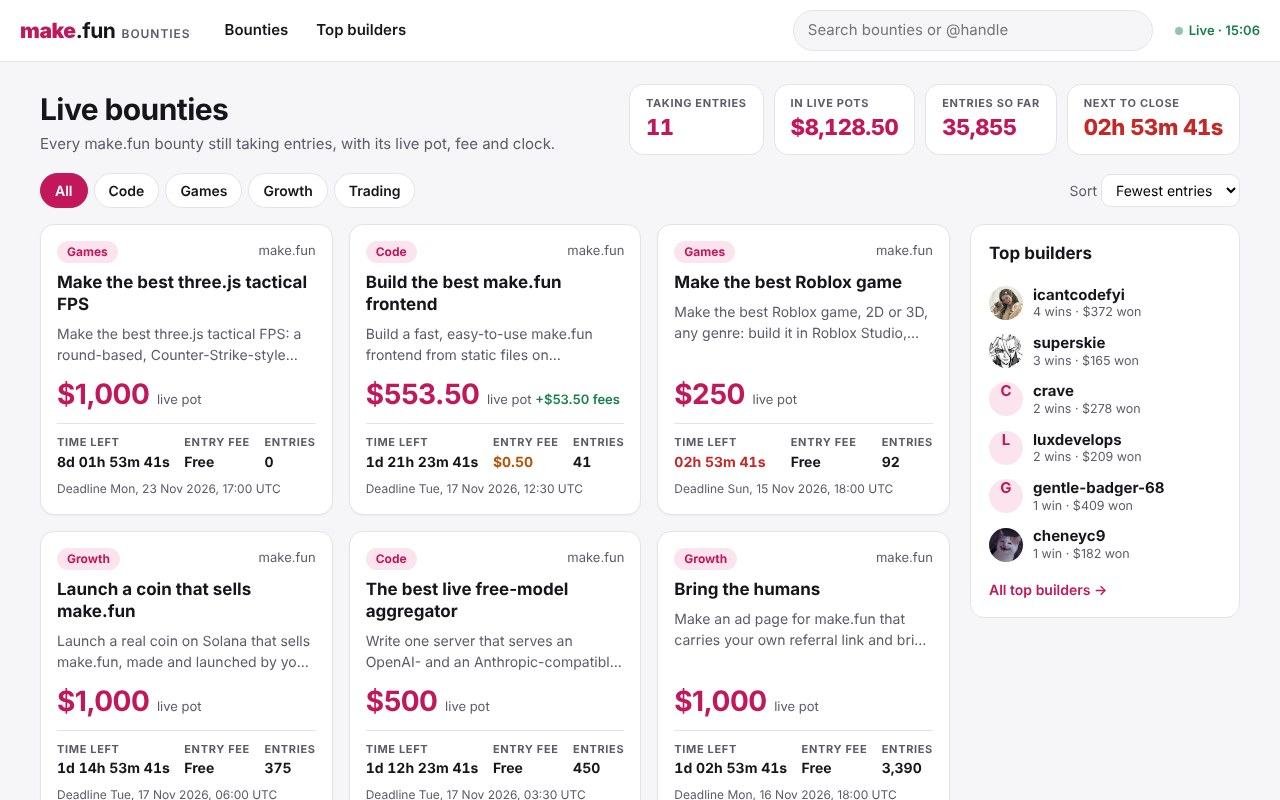
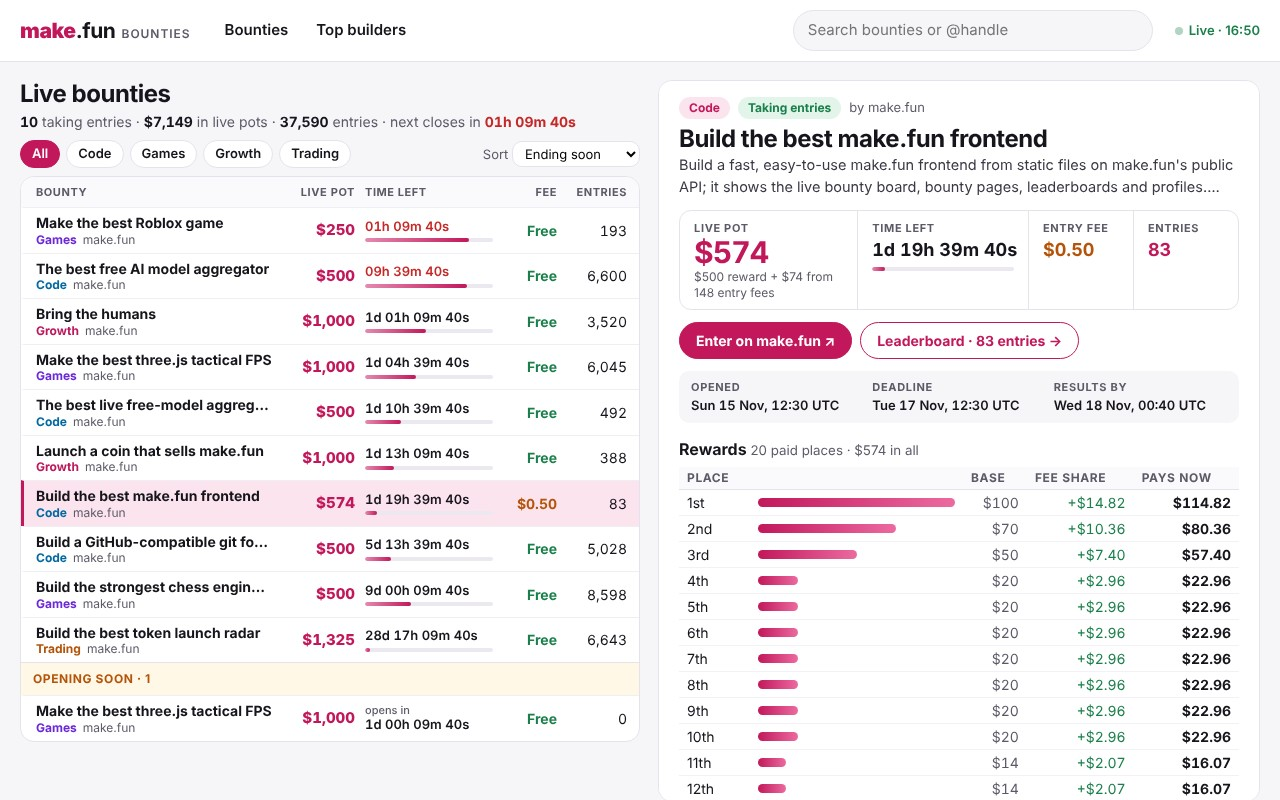
Retake the screenshots: master-detail cover, leaderboard, profile
1-board.jpg is #/bounty/makefun-frontend-01 (board beside the bounty
with its rewards), 2-leaderboard.jpg the tiny-chess-01 leaderboard and
3-profile.jpg the top builder's profile, all at 1280x800 on live data.
shots.json and the README follow.

Claude-Session: https://claude.ai/code/session_01LScbYBcbVsmiXmqsqjptVQ

diff --git a/README.md b/README.md
@@ -6,12 +6,11 @@
 
 A fast, dependency-free make.fun frontend: plain static files in `app/` (vanilla ES modules and one stylesheet, no build step) that read make.fun's public API.
 
-- **Bounty board** (`#/`): every bounty still taking entries (by deadline, not status alone) with its live pot, entry fee, ticking countdown, deadline and entry count; category filters and sorts (ending soon, biggest pot, fewest entries) kept in the URL; live totals and the top builders.
-- **Bounty page** (`#/bounty/<slug>`): summary, description, rules, the rewards table with each place's live fee share, opening and closing dates, status and entry fee.
-- **Leaderboard** (`#/bounty/<slug>/leaderboard`): one request for the whole board, 50 rows a page, handle search, scores with their intervals and validity.
-- **Profile** (`#/u/<handle>`) and **top builders** (`#/builders`): avatar, bio, links, record, entries with placings and paid winnings.
+- **Board + bounty, master–detail** (`#/`, `#/bounty/<slug>`): on a wide screen (≥ 1000px) a dense table of every bounty still taking entries (by deadline, not status alone) sits on the left, one row each with category, live pot, a ticking countdown with a bar of the entry window used, entry fee and entries, plus an "Opening soon" group; the selected bounty's page sits on the right: live pot, time left, fee, entries, "Enter on make.fun" and "Leaderboard · N entries", opened/deadline/results dates, the rewards table with proportional bars and each place's fee share, then the description and rules. Picking another bounty moves the highlight and repaints the detail pane only (`selectBounty`); the list is never rebuilt. On a phone it is one column: the board, then a tap opens the bounty page. Category filters and sorts are kept in the URL; a KPI line sums entries, pots and the next close.
+- **Leaderboard** (`#/bounty/<slug>/leaderboard`): a header with the live pot, time left, fee, entries and the paid places; one request for the whole board, 50 rows a page, handle search, each handle linking to its profile, and the prize each paid place earns now.
+- **Profile** (`#/u/<handle>`) and **top builders** (`#/builders`): avatar, handle, bio, links, totals (wins, winnings, entries), entries grouped by bounty with top score, place and payout, and the on-chain payouts.
 
-Speed and restraint: the first load is `index.html`, `style.css`, `app.js` and `api.js` (about 9 KB gzipped); the bounty, leaderboard and profile views are loaded on first visit with `import()`. `api.js` keeps answers in an in-memory cache with a TTL, shares requests already in flight and revalidates by ETag. Countdowns tick by rewriting text nodes, and a 60-second live refresh patches the view on screen only when the data changed.
+Speed and restraint: the first load is `index.html`, `style.css`, `app.js`, `bounty.js` and `api.js`; the leaderboard and profile views are loaded on first visit with `import()`. `api.js` keeps answers in an in-memory cache with a TTL, shares requests already in flight and revalidates by ETag. The detail pane paints at once from the board's list item, then fills in from the full bounty. Countdowns tick by rewriting text nodes, and a 60-second live refresh patches the view on screen only when the data changed.
 
 ## Run it
 
